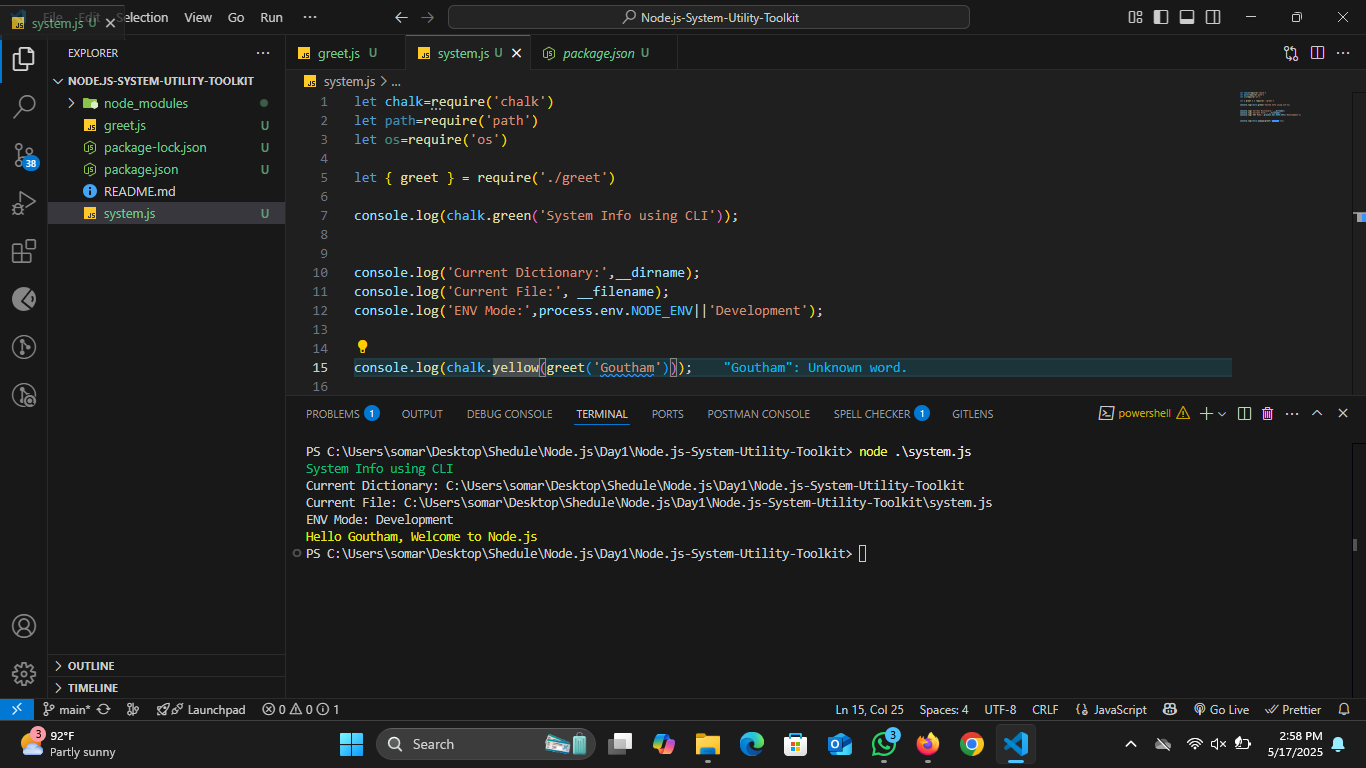
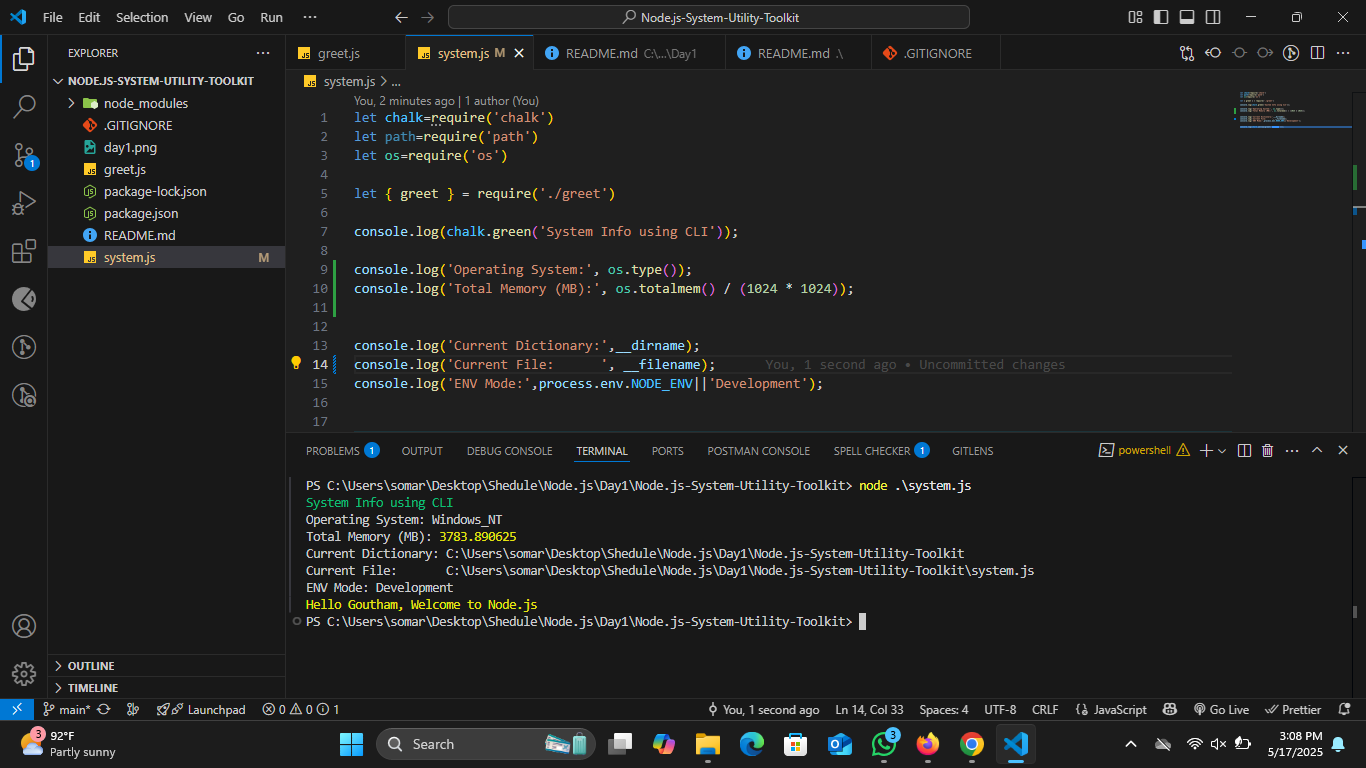
Node.js-System-Utility-Toolkit

diff --git a/system.js b/system.js
@@ -6,9 +6,12 @@ let { greet } = require('./greet')
 
 console.log(chalk.green('System Info using CLI'));
 
+console.log('Operating System:', os.type());
+console.log('Total Memory (MB):', os.totalmem() / (1024 * 1024));
+
 
 console.log('Current Dictionary:',__dirname);
-console.log('Current File:', __filename);
+console.log('Current File:      ', __filename);
 console.log('ENV Mode:',process.env.NODE_ENV||'Development');
 
 
